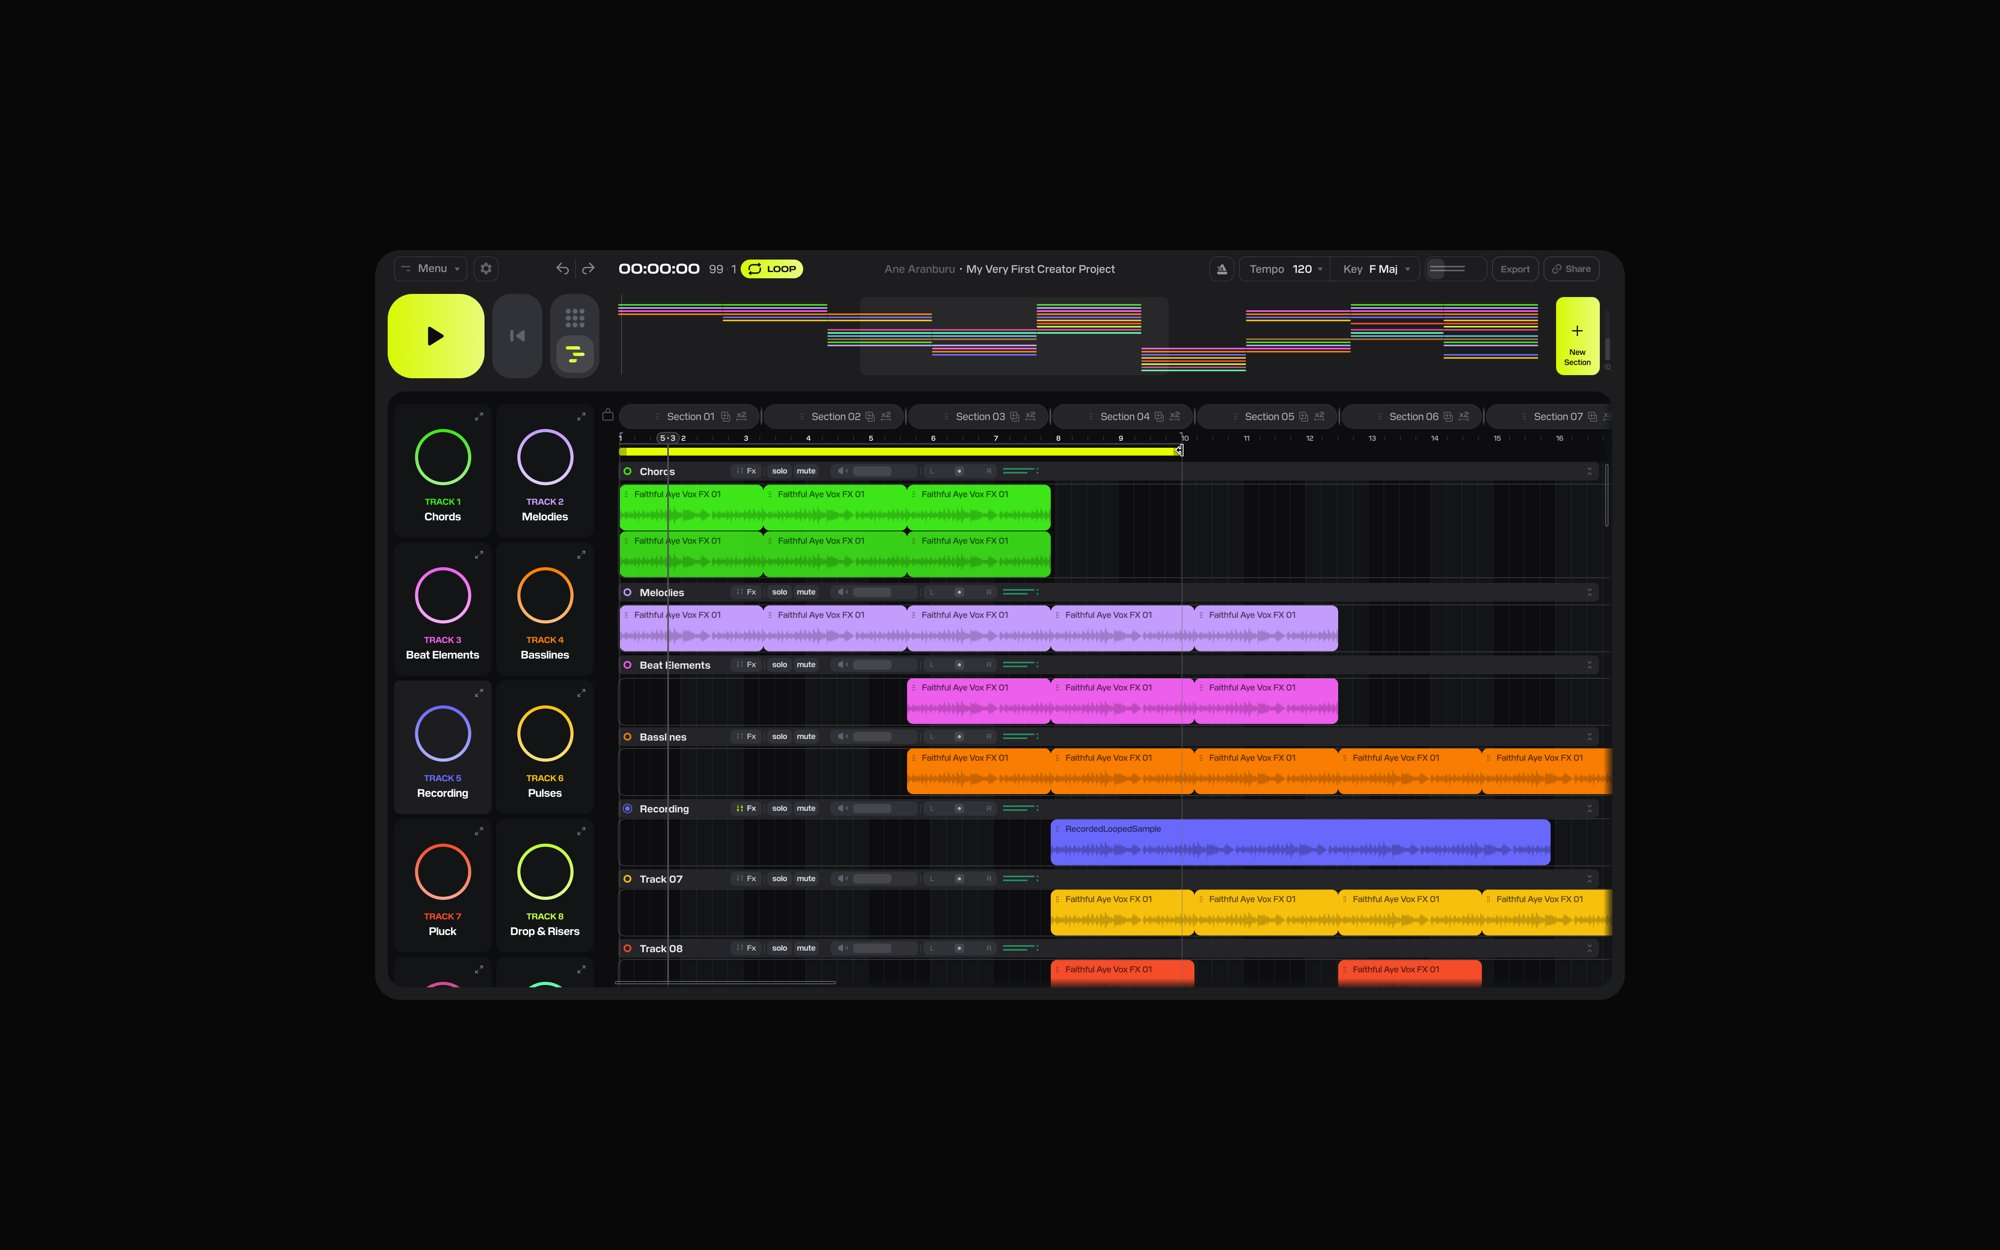
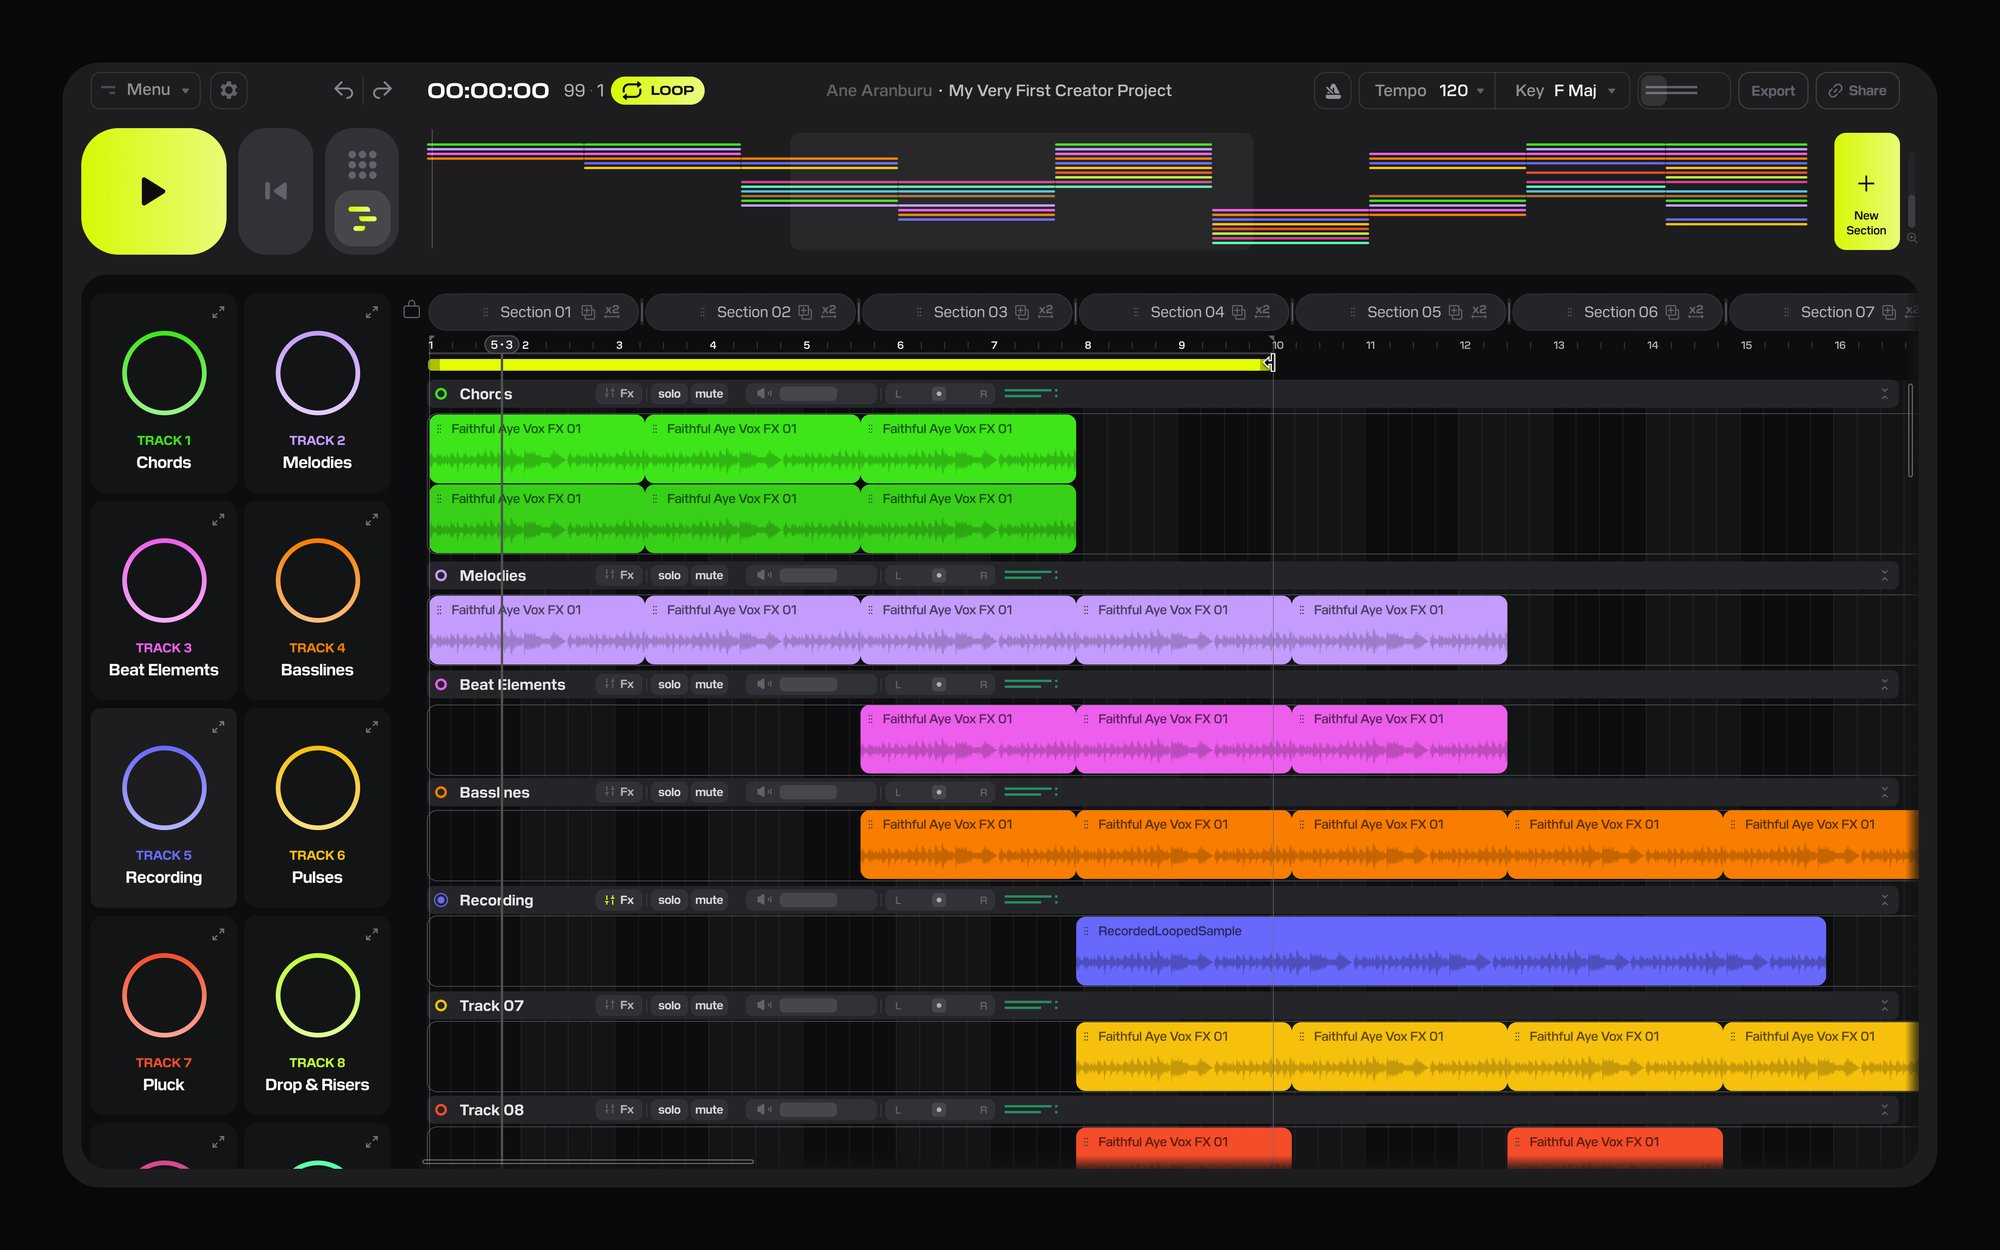
Creator: updated images + bigger, more focused type scale
Refresh the Output Creator images (re-optimized JPEGs), and a
typography/spacing pass across all five case studies — larger body,
lead and headings, wider reading column, more whitespace between
sections — for a bigger, clearer, more focused read.

diff --git a/work/ipondr/index.html b/work/ipondr/index.html
@@ -38,7 +38,7 @@
     --font: 'Schibsted Grotesk', sans-serif;
     --nav-h: 70px;
     --margin: 48px;
-    --readw: 680px;
+    --readw: 720px;
   }
   html { scroll-behavior: smooth; }
   @media (prefers-reduced-motion: reduce) { html { scroll-behavior: auto; } * { transition: none !important; } }
@@ -86,7 +86,7 @@
   /* ---------- LAYOUT ---------- */
   .wrap { max-width: var(--readw); margin: 0; padding: 0 var(--margin); }
   .read { max-width: none; }
-  section { padding: clamp(48px, 7vh, 80px) 0; }
+  section { padding: clamp(72px, 10vh, 120px) 0; }
   section + section { position: relative; }
   section + section::before {
     content: ""; position: absolute; top: 0; left: 50%; transform: translateX(-50%);
@@ -96,12 +96,12 @@
   section[style*="border-top:none"] + section::before { display: none; }
   .eyebrow { font-size: 11px; font-weight: 500; letter-spacing: .08em; text-transform: uppercase; color: var(--muted); margin-bottom: 20px; }
   .eyebrow .accent { color: #fff; }
-  h1 { font-weight: 400; letter-spacing: -.02em; font-size: clamp(34px, 5.2vw, 60px); line-height: 1.08; color: #fff; max-width: 16ch; }
-  h2 { font-weight: 400; letter-spacing: -.015em; font-size: clamp(24px, 3vw, 34px); line-height: 1.15; color: #fff; margin-bottom: 24px; max-width: 22ch; }
+  h1 { font-weight: 400; letter-spacing: -.02em; font-size: clamp(38px, 5.4vw, 66px); line-height: 1.05; color: #fff; max-width: 16ch; }
+  h2 { font-weight: 400; letter-spacing: -.015em; font-size: clamp(28px, 3.4vw, 40px); line-height: 1.12; color: #fff; margin-bottom: 24px; max-width: 22ch; }
   h3 { font-weight: 500; letter-spacing: -.01em; font-size: 19px; line-height: 1.3; color: var(--text); }
-  .lead { font-size: clamp(18px, 2vw, 23px); line-height: 1.45; letter-spacing: -.01em; color: var(--text); font-weight: 400; }
-  p.body { font-size: 18px; line-height: 1.7; color: var(--body); }
-  p.body + p.body { margin-top: 22px; }
+  .lead { font-size: clamp(20px, 2.4vw, 27px); line-height: 1.4; letter-spacing: -.01em; color: var(--text); font-weight: 400; }
+  p.body { font-size: 19px; line-height: 1.75; color: var(--body); }
+  p.body + p.body { margin-top: 26px; }
   .body a, .body strong { color: var(--text); }
   .body strong { font-weight: 500; }
   .body a { text-decoration: underline; text-underline-offset: 3px; text-decoration-color: var(--muted); transition: text-decoration-color .2s; }

diff --git a/work/nmaahc/index.html b/work/nmaahc/index.html
@@ -38,7 +38,7 @@
     --font: 'Schibsted Grotesk', sans-serif;
     --nav-h: 70px;
     --margin: 48px;
-    --readw: 680px;
+    --readw: 720px;
   }
   html { scroll-behavior: smooth; }
   @media (prefers-reduced-motion: reduce) { html { scroll-behavior: auto; } * { transition: none !important; } }
@@ -86,7 +86,7 @@
   /* ---------- LAYOUT ---------- */
   .wrap { max-width: var(--readw); margin: 0; padding: 0 var(--margin); }
   .read { max-width: none; }
-  section { padding: clamp(48px, 7vh, 80px) 0; }
+  section { padding: clamp(72px, 10vh, 120px) 0; }
   section + section { position: relative; }
   section + section::before {
     content: ""; position: absolute; top: 0; left: 50%; transform: translateX(-50%);
@@ -96,12 +96,12 @@
   section[style*="border-top:none"] + section::before { display: none; }
   .eyebrow { font-size: 11px; font-weight: 500; letter-spacing: .08em; text-transform: uppercase; color: var(--muted); margin-bottom: 20px; }
   .eyebrow .accent { color: #fff; }
-  h1 { font-weight: 400; letter-spacing: -.02em; font-size: clamp(34px, 5.2vw, 60px); line-height: 1.08; color: #fff; max-width: 16ch; }
-  h2 { font-weight: 400; letter-spacing: -.015em; font-size: clamp(24px, 3vw, 34px); line-height: 1.15; color: #fff; margin-bottom: 24px; max-width: 22ch; }
+  h1 { font-weight: 400; letter-spacing: -.02em; font-size: clamp(38px, 5.4vw, 66px); line-height: 1.05; color: #fff; max-width: 16ch; }
+  h2 { font-weight: 400; letter-spacing: -.015em; font-size: clamp(28px, 3.4vw, 40px); line-height: 1.12; color: #fff; margin-bottom: 24px; max-width: 22ch; }
   h3 { font-weight: 500; letter-spacing: -.01em; font-size: 19px; line-height: 1.3; color: var(--text); }
-  .lead { font-size: clamp(18px, 2vw, 23px); line-height: 1.45; letter-spacing: -.01em; color: var(--text); font-weight: 400; }
-  p.body { font-size: 18px; line-height: 1.7; color: var(--body); }
-  p.body + p.body { margin-top: 22px; }
+  .lead { font-size: clamp(20px, 2.4vw, 27px); line-height: 1.4; letter-spacing: -.01em; color: var(--text); font-weight: 400; }
+  p.body { font-size: 19px; line-height: 1.75; color: var(--body); }
+  p.body + p.body { margin-top: 26px; }
   .body a, .body strong { color: var(--text); }
   .body strong { font-weight: 500; }
   .body a { text-decoration: underline; text-underline-offset: 3px; text-decoration-color: var(--muted); transition: text-decoration-color .2s; }

diff --git a/work/cinepolis/index.html b/work/cinepolis/index.html
@@ -38,7 +38,7 @@
     --font: 'Schibsted Grotesk', sans-serif;
     --nav-h: 70px;
     --margin: 48px;
-    --readw: 680px;
+    --readw: 720px;
   }
   html { scroll-behavior: smooth; }
   @media (prefers-reduced-motion: reduce) { html { scroll-behavior: auto; } * { transition: none !important; } }
@@ -86,7 +86,7 @@
   /* ---------- LAYOUT ---------- */
   .wrap { max-width: var(--readw); margin: 0; padding: 0 var(--margin); }
   .read { max-width: none; }
-  section { padding: clamp(48px, 7vh, 80px) 0; }
+  section { padding: clamp(72px, 10vh, 120px) 0; }
   section + section { position: relative; }
   section + section::before {
     content: ""; position: absolute; top: 0; left: 50%; transform: translateX(-50%);
@@ -96,11 +96,11 @@
   section[style*="border-top:none"] + section::before { display: none; }
   .eyebrow { font-size: 11px; font-weight: 500; letter-spacing: .08em; text-transform: uppercase; color: var(--muted); margin-bottom: 20px; }
   .eyebrow .accent { color: #fff; }
-  h1 { font-weight: 400; letter-spacing: -.02em; font-size: clamp(34px, 5.2vw, 60px); line-height: 1.08; color: #fff; max-width: 16ch; }
-  h2 { font-weight: 400; letter-spacing: -.015em; font-size: clamp(24px, 3vw, 34px); line-height: 1.15; color: #fff; margin-bottom: 24px; max-width: 20ch; }
-  .lead { font-size: clamp(18px, 2vw, 23px); line-height: 1.45; letter-spacing: -.01em; color: var(--text); font-weight: 400; }
-  p.body { font-size: 18px; line-height: 1.7; color: var(--body); }
-  p.body + p.body { margin-top: 22px; }
+  h1 { font-weight: 400; letter-spacing: -.02em; font-size: clamp(38px, 5.4vw, 66px); line-height: 1.05; color: #fff; max-width: 16ch; }
+  h2 { font-weight: 400; letter-spacing: -.015em; font-size: clamp(28px, 3.4vw, 40px); line-height: 1.12; color: #fff; margin-bottom: 24px; max-width: 20ch; }
+  .lead { font-size: clamp(20px, 2.4vw, 27px); line-height: 1.4; letter-spacing: -.01em; color: var(--text); font-weight: 400; }
+  p.body { font-size: 19px; line-height: 1.75; color: var(--body); }
+  p.body + p.body { margin-top: 26px; }
   .body a { color: var(--text); text-decoration: underline; text-underline-offset: 3px; text-decoration-color: var(--muted); transition: text-decoration-color .2s; }
   .body a:hover { text-decoration-color: var(--text); }
   .fill { color: var(--muted); border-bottom: 1px dashed rgba(255,255,255,.25); font-style: normal; }

diff --git a/work/embibe/index.html b/work/embibe/index.html
@@ -38,7 +38,7 @@
     --font: 'Schibsted Grotesk', sans-serif;
     --nav-h: 70px;
     --margin: 48px;
-    --readw: 680px;
+    --readw: 720px;
   }
   html { scroll-behavior: smooth; }
   @media (prefers-reduced-motion: reduce) { html { scroll-behavior: auto; } * { transition: none !important; } }
@@ -86,7 +86,7 @@
   /* ---------- LAYOUT ---------- */
   .wrap { max-width: var(--readw); margin: 0; padding: 0 var(--margin); }
   .read { max-width: none; }
-  section { padding: clamp(48px, 7vh, 80px) 0; }
+  section { padding: clamp(72px, 10vh, 120px) 0; }
   section + section { position: relative; }
   section + section::before {
     content: ""; position: absolute; top: 0; left: 50%; transform: translateX(-50%);
@@ -96,11 +96,11 @@
   section[style*="border-top:none"] + section::before { display: none; }
   .eyebrow { font-size: 11px; font-weight: 500; letter-spacing: .08em; text-transform: uppercase; color: var(--muted); margin-bottom: 20px; }
   .eyebrow .accent { color: #fff; }
-  h1 { font-weight: 400; letter-spacing: -.02em; font-size: clamp(34px, 5.2vw, 60px); line-height: 1.08; color: #fff; max-width: 16ch; }
-  h2 { font-weight: 400; letter-spacing: -.015em; font-size: clamp(24px, 3vw, 34px); line-height: 1.15; color: #fff; margin-bottom: 24px; max-width: 22ch; }
-  .lead { font-size: clamp(18px, 2vw, 23px); line-height: 1.45; letter-spacing: -.01em; color: var(--text); font-weight: 400; }
-  p.body { font-size: 18px; line-height: 1.7; color: var(--body); }
-  p.body + p.body { margin-top: 22px; }
+  h1 { font-weight: 400; letter-spacing: -.02em; font-size: clamp(38px, 5.4vw, 66px); line-height: 1.05; color: #fff; max-width: 16ch; }
+  h2 { font-weight: 400; letter-spacing: -.015em; font-size: clamp(28px, 3.4vw, 40px); line-height: 1.12; color: #fff; margin-bottom: 24px; max-width: 22ch; }
+  .lead { font-size: clamp(20px, 2.4vw, 27px); line-height: 1.4; letter-spacing: -.01em; color: var(--text); font-weight: 400; }
+  p.body { font-size: 19px; line-height: 1.75; color: var(--body); }
+  p.body + p.body { margin-top: 26px; }
   .body a, .body strong { color: var(--text); }
   .body strong { font-weight: 500; }
   .fill { color: var(--muted); border-bottom: 1px dashed rgba(255,255,255,.25); font-style: normal; }

diff --git a/work/output-creator/index.html b/work/output-creator/index.html
@@ -39,7 +39,7 @@
     --nav-h: 70px;
     --margin: 48px;
     --maxw: 1120px;
-    --readw: 680px;
+    --readw: 720px;
   }
 
   html { scroll-behavior: smooth; }
@@ -103,7 +103,7 @@
   /* ---------- LAYOUT ---------- */
   .wrap { max-width: var(--readw); margin: 0; padding: 0 var(--margin); }
   .read { max-width: none; }
-  section { padding: clamp(48px, 7vh, 80px) 0; }
+  section { padding: clamp(72px, 10vh, 120px) 0; }
   /* Dividers are constrained to the reading-column width and centered, so they align with the text rather than spanning the full page. */
   section + section { position: relative; }
   section + section::before {
@@ -116,12 +116,12 @@
   .eyebrow { font-size: 11px; font-weight: 500; letter-spacing: .08em; text-transform: uppercase; color: var(--muted); margin-bottom: 20px; }
   .eyebrow .accent { color: #fff; }
 
-  h1 { font-weight: 400; letter-spacing: -.02em; font-size: clamp(34px, 5.2vw, 60px); line-height: 1.08; color: #fff; max-width: 16ch; }
-  h2 { font-weight: 400; letter-spacing: -.015em; font-size: clamp(24px, 3vw, 34px); line-height: 1.15; color: #fff; margin-bottom: 24px; max-width: 20ch; }
+  h1 { font-weight: 400; letter-spacing: -.02em; font-size: clamp(38px, 5.4vw, 66px); line-height: 1.05; color: #fff; max-width: 16ch; }
+  h2 { font-weight: 400; letter-spacing: -.015em; font-size: clamp(28px, 3.4vw, 40px); line-height: 1.12; color: #fff; margin-bottom: 24px; max-width: 20ch; }
   h3 { font-weight: 500; letter-spacing: -.01em; font-size: 19px; line-height: 1.3; color: var(--text); }
-  .lead { font-size: clamp(18px, 2vw, 23px); line-height: 1.45; letter-spacing: -.01em; color: var(--text); font-weight: 400; }
-  p.body { font-size: 18px; line-height: 1.7; color: var(--body); }
-  p.body + p.body { margin-top: 22px; }
+  .lead { font-size: clamp(20px, 2.4vw, 27px); line-height: 1.4; letter-spacing: -.01em; color: var(--text); font-weight: 400; }
+  p.body { font-size: 19px; line-height: 1.75; color: var(--body); }
+  p.body + p.body { margin-top: 26px; }
   .body a, .body strong { color: var(--text); }
   .body strong { font-weight: 500; }
   .body a { text-decoration: underline; text-underline-offset: 3px; text-decoration-color: var(--muted); transition: text-decoration-color .2s; }
